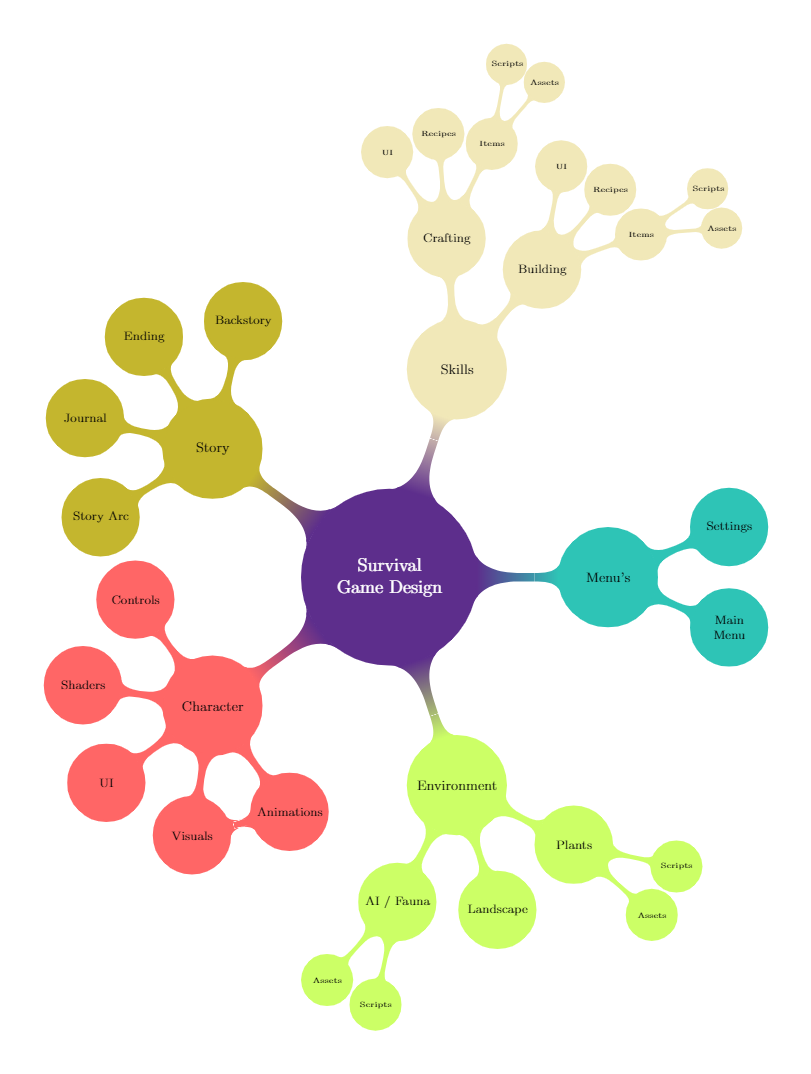
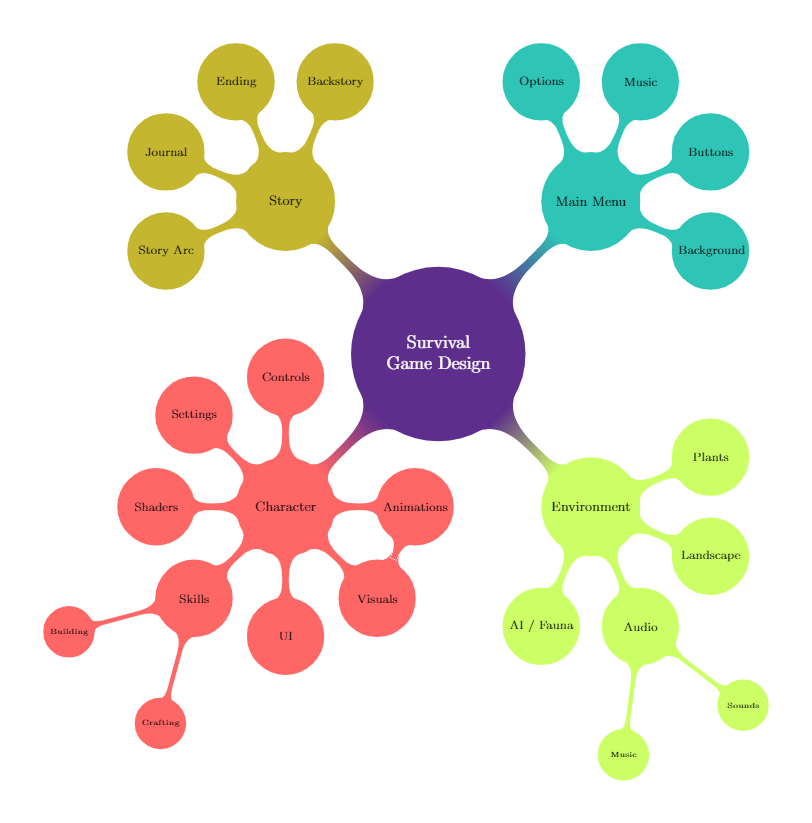
updated the design section

diff --git a/README.md b/README.md
@@ -220,13 +220,25 @@ Further
 - Using Unity's Input Manager & built in multiplatform commands (e.g. 'Horizontal' rather than 'Mouse X')
 - Implement swimming
 
-#### 4.1.2 Shaders
+#### 4.1.2 Settings
+- Settings info
+
+#### 4.1.3 Shaders
 - Shaders info
 
-#### 4.1.3 UI
+#### 4.1.4 Skills
+- Skills info
+
+##### 4.1.4.1 Building
+- Building info (UI, Recipes, Items Scripts & Assets)
+
+##### 4.1.4.2 Crafting
+- Crafting info (UI, Recipes, Items Scripts & Assets)
+
+#### 4.1.5 UI
 - UI info
 
-#### 4.1.4 Visuals / Animations
+#### 4.1.6 Visuals / Animations
 - Visuals / Animations info
 
 ### 4.2 Environment
@@ -245,55 +257,37 @@ Further
 - Test build second species of herbivore with different behaviour (i.e. bottom feeders).
 - Expand Herbivore AI to accommodate swarms (when >1 are in close proximity have them join together and consolidate logic).
 
-#### 4.2.2 Landscape
+#### 4.2.2 Audio
+- Audio info
+
+##### 4.2.2.1 Music
+- Music info
+
+##### 4.2.2.2 Sounds
+- Sounds info
+
+#### 4.2.3 Landscape
 - Landscape info
 
-#### 4.2.3 Plants
+#### 4.2.4 Plants
 - Plants info
 
-### 4.3 Menu's
+### 4.3 Main Menu
 Intro to the Menu design section.
 
-#### 4.3.1 Main Menu
-- Main Menu info
+#### 4.3.1 Background
+- Background info
 
-#### 4.3.2 Settings
-- Settings info
+#### 4.3.2 Buttons
+- Buttons info
 
-### 4.4 Skills
-Intro to the Skills design section.
+#### 4.3.1 Music
+- Music info
 
-#### 4.4.1 Building / Construction
-- Building / Contruction info
+#### 4.3.2 Options
+- Options info
 
-##### 4.4.1.1 UI
-- Building / Construction UI
-
-##### 4.4.1.2 Recipes / Items
-- Table of Items, Recipes, Assets/visuals, Scripts (Items Purpose/Function)
-
-	| Item          | Recipe        | Assets/Visuals| Scripts       |
-	|:-------------:|:-------------:|:-------------:|:-------------:|
-	| info          | info          | info          | info          |
-	| info          | info          | info          | info          |
-	| info          | info          | info          | info          |
-
-#### 4.4.2 Crafting
-- Crafting info
-
-##### 4.4.2.1 UI
-- Crafting UI
-
-##### 4.4.2.2 Recipes / Items
-- Table of Items, Recipes, Assets/visuals, Scripts (Items Purpose/Function)
-
-	| Item          | Recipe        | Assets/Visuals| Scripts       |
-	|:-------------:|:-------------:|:-------------:|:-------------:|
-	| info          | info          | info          | info          |
-	| info          | info          | info          | info          |
-	| info          | info          | info          | info          |
-
-### 4.5 Story
+### 4.4 Story
 Intro to the Story section.
 
 #### 4.5.1 Backstory
